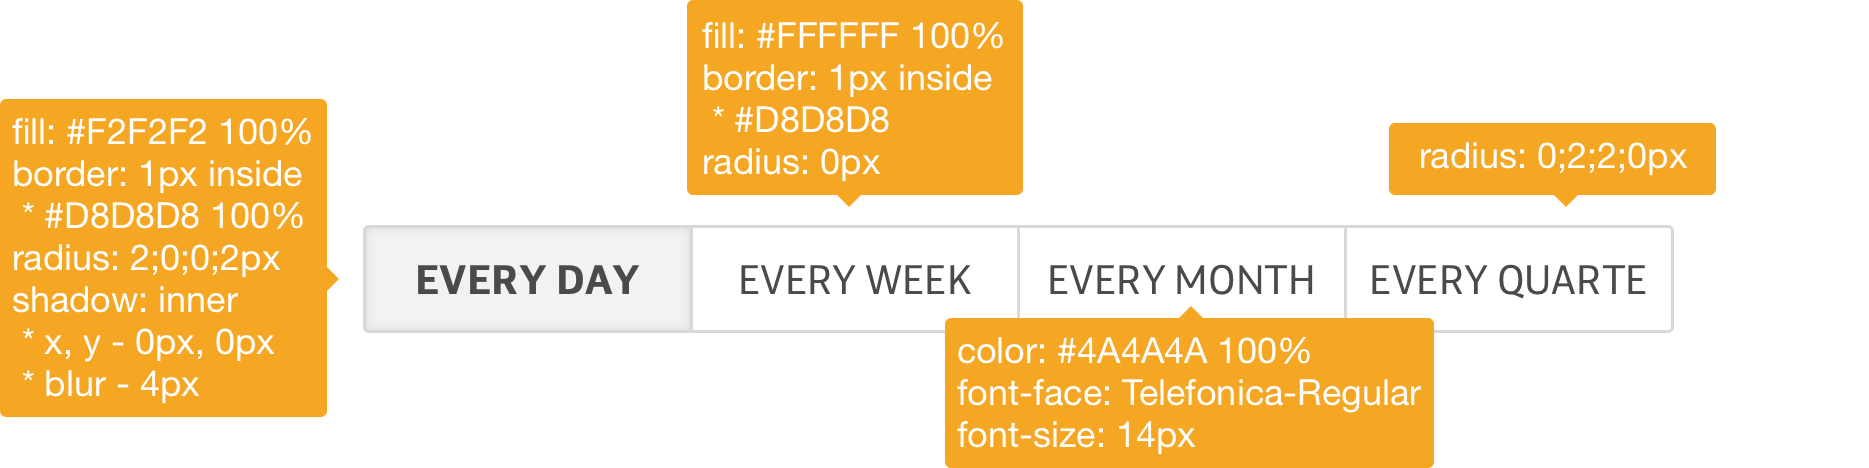
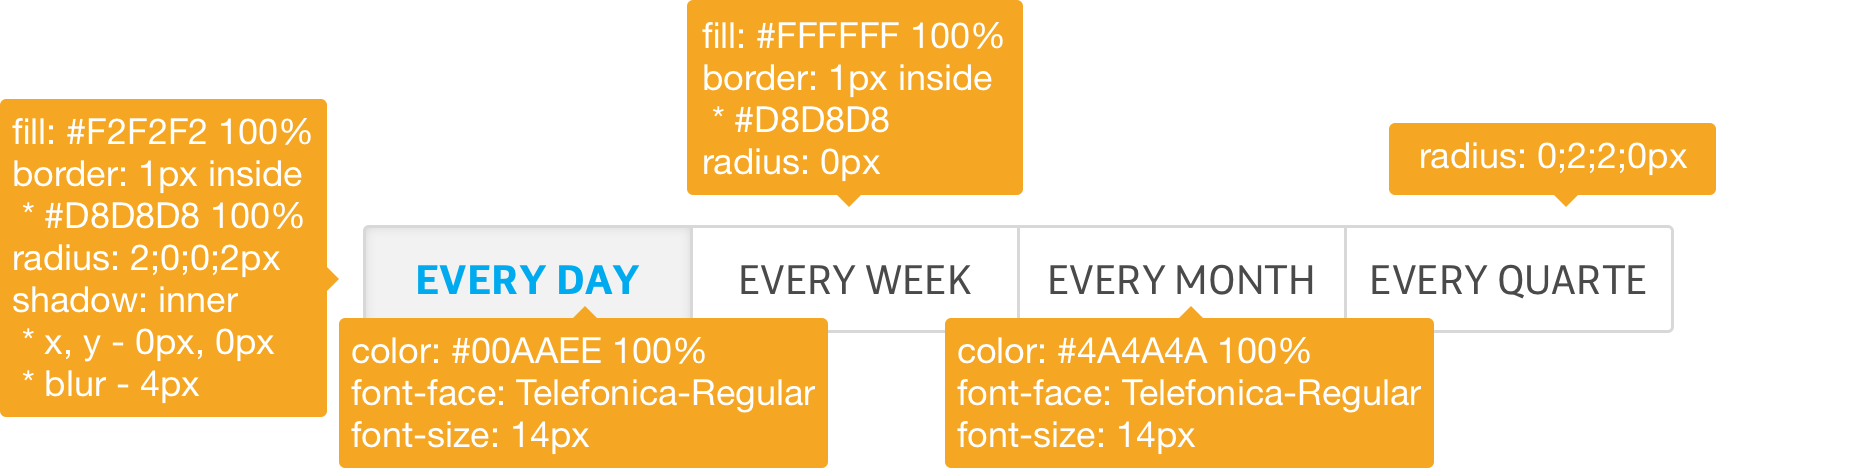
Button Active Color

Changed region(s): [[0.1552, 0.6581, 0.4655, 1.0], [0.2172, 0.5684, 0.3414, 0.6282]]

diff --git a/source/assets/stylesheets/uielements/_button_bar.scss b/source/assets/stylesheets/uielements/_button_bar.scss
@@ -39,7 +39,7 @@
         background-image: none;
         border: solid 1px $grey02;
         label {
-          color: $grey;
+          color: $blue;
           font-family: Telefonicabold;
         }
         .tab-content {
